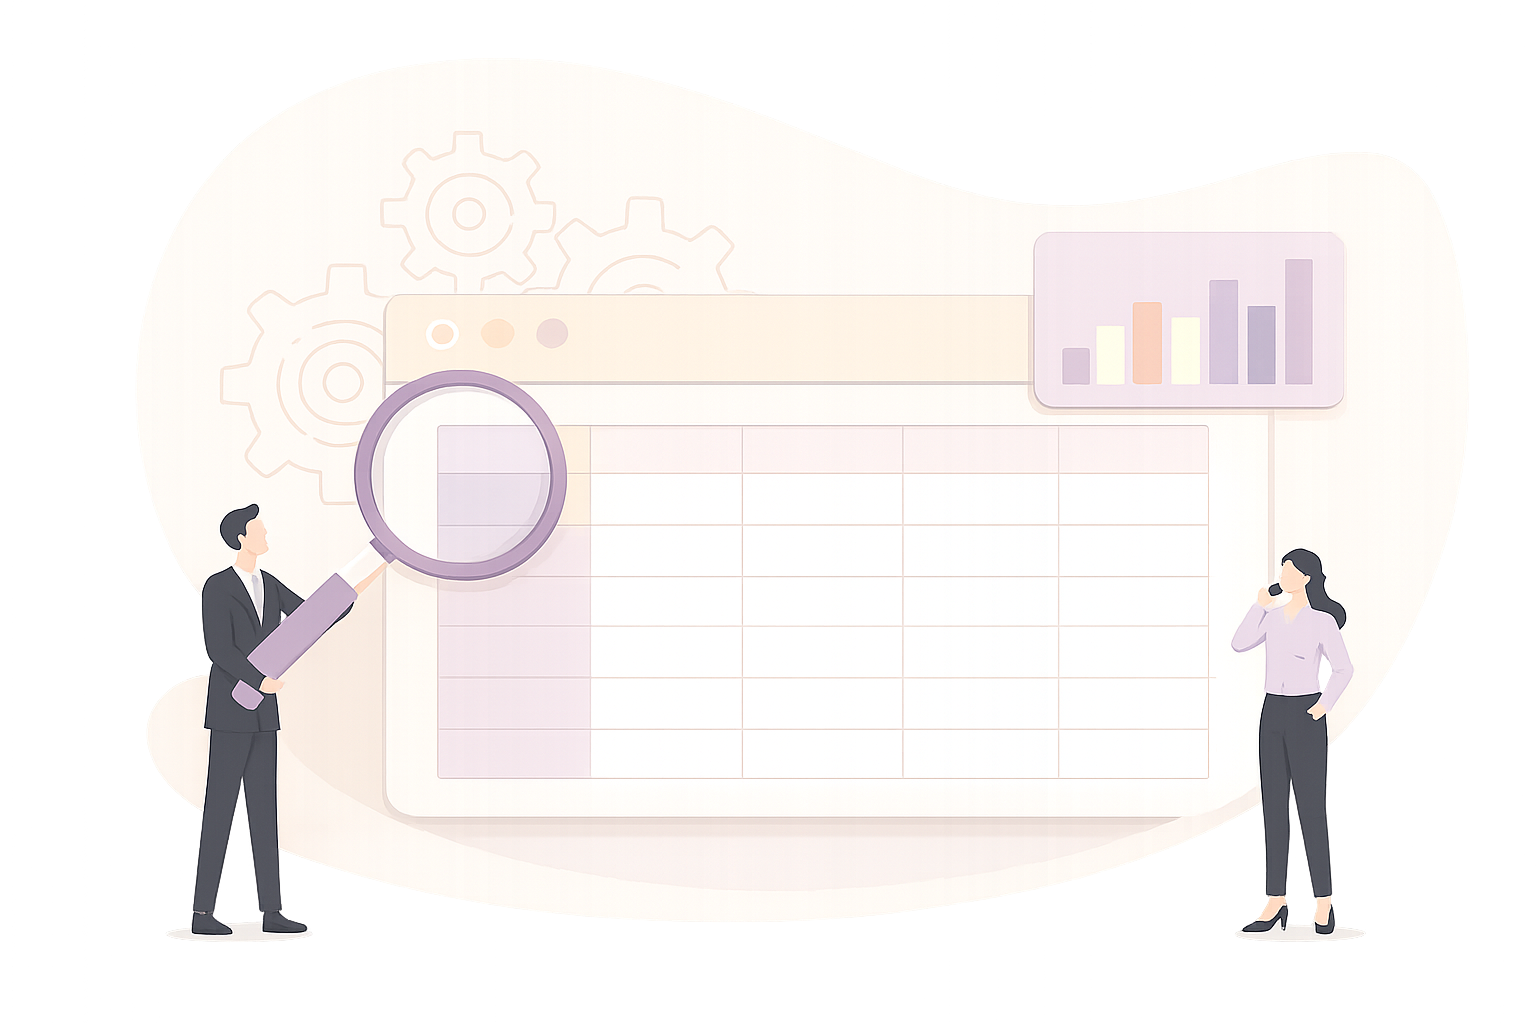
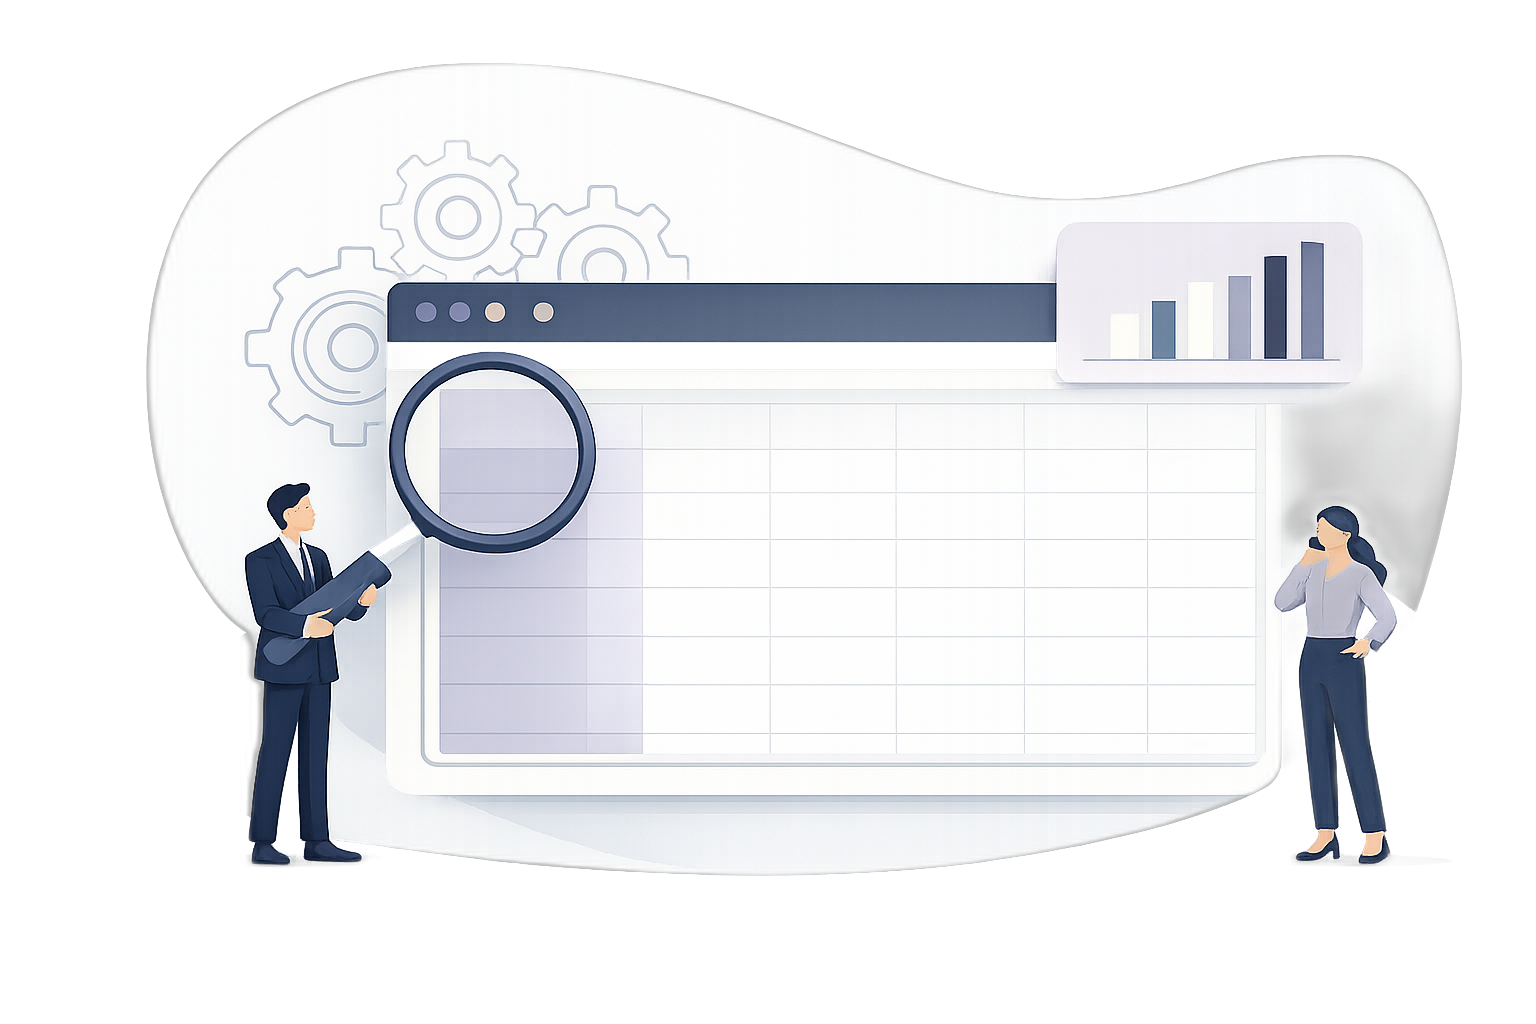
Replace export and voice-note illustrations with recreated versions
Both new illustrations are icon/graphic-only (no baked-in copy to garble),
so just needed the same black-vignette background removed. Bump their
cache-bust query strings since the filenames are unchanged.

diff --git a/public/app.js b/public/app.js
@@ -425,7 +425,7 @@ function authView() {
 
       <section class="public-section public-feature-grid" id="exports">
         <article class="public-panel">
-          <img class="panel-illustration" src="/illustrations-final/excel_save.png?v=final-20260729" alt="Contacts saved to a spreadsheet" />
+          <img class="panel-illustration" src="/illustrations-final/excel_save.png?v=final-20260807" alt="Contacts saved to a spreadsheet" />
           <div>
             <p class="section-kicker">Structured exports</p>
             <h2>Clean contact data, ready to use.</h2>
@@ -433,7 +433,7 @@ function authView() {
           </div>
         </article>
         <article class="public-panel">
-          <img class="panel-illustration" src="/illustrations-final/voice%20input%20illustration_right_section.png?v=final-20260729" alt="Voice note captured for a contact" />
+          <img class="panel-illustration" src="/illustrations-final/voice%20input%20illustration_right_section.png?v=final-20260807" alt="Voice note captured for a contact" />
           <div>
             <p class="section-kicker">Voice-based context</p>
             <h2>Capture the details that cards cannot.</h2>

diff --git a/public/index.html b/public/index.html
@@ -9,10 +9,10 @@
     <meta property="og:title" content="Card2Leads – Turn Business Cards into Organised Contacts" />
     <meta property="og:description" content="Scan business cards, review extracted details, add labels and voice inputs, and export or sync approved contacts." />
     <link rel="manifest" href="/manifest.webmanifest" />
-    <link rel="stylesheet" href="/styles.css?v=20260806-7" />
+    <link rel="stylesheet" href="/styles.css?v=20260807-1" />
   </head>
   <body>
     <div id="app"></div>
-    <script src="/app.js?v=20260806-7"></script>
+    <script src="/app.js?v=20260807-1"></script>
   </body>
 </html>
